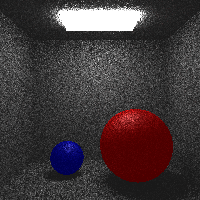
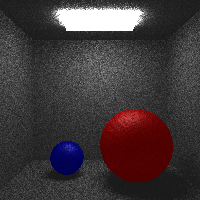
multithreaded raytracer to increase speed

diff --git a/render3d/raytrace.go b/render3d/raytrace.go
@@ -2,6 +2,8 @@ package render3d
 
 import (
 	"math/rand"
+	"runtime"
+	"sync"
 
 	"github.com/unixpickle/model3d"
 )
@@ -46,19 +48,35 @@ func (r *RecursiveRayTracer) Render(img *Image, obj Object) {
 	maxX := float64(img.Width) - 1
 	maxY := float64(img.Height) - 1
 	caster := r.Camera.Caster(maxX, maxY)
-	ray := model3d.Ray{Origin: r.Camera.Origin}
+
+	coords := make(chan [3]int, img.Width*img.Height)
 	var idx int
-	for y := 0.0; y <= maxY; y++ {
-		for x := 0.0; x <= maxX; x++ {
-			ray.Direction = caster(x, y)
-			var color Color
-			for i := 0; i < r.NumSamples; i++ {
-				color = color.Add(r.castRay(obj, &ray, 0))
-			}
-			img.Data[idx] = color.Scale(1 / float64(r.NumSamples))
+	for y := 0; y < img.Width; y++ {
+		for x := 0; x < img.Height; x++ {
+			coords <- [3]int{x, y, idx}
 			idx++
 		}
 	}
+	close(coords)
+
+	var wg sync.WaitGroup
+	for i := 0; i < runtime.NumCPU(); i++ {
+		wg.Add(1)
+		go func() {
+			defer wg.Done()
+			ray := model3d.Ray{Origin: r.Camera.Origin}
+			for c := range coords {
+				ray.Direction = caster(float64(c[0]), float64(c[1]))
+				var color Color
+				for i := 0; i < r.NumSamples; i++ {
+					color = color.Add(r.castRay(obj, &ray, 0))
+				}
+				img.Data[c[2]] = color.Scale(1 / float64(r.NumSamples))
+			}
+		}()
+	}
+
+	wg.Wait()
 }
 
 func (r *RecursiveRayTracer) recurse(obj Object, point model3d.Coord3D, ray *model3d.Ray,

diff --git a/examples/apis/render/main.go b/examples/apis/render/main.go
@@ -89,7 +89,7 @@ func main() {
 		FocusPointProbs: []float64{0.5},
 
 		MaxDepth:   4,
-		NumSamples: 20,
+		NumSamples: 50,
 	}
 
 	img := render3d.NewImage(200, 200)
